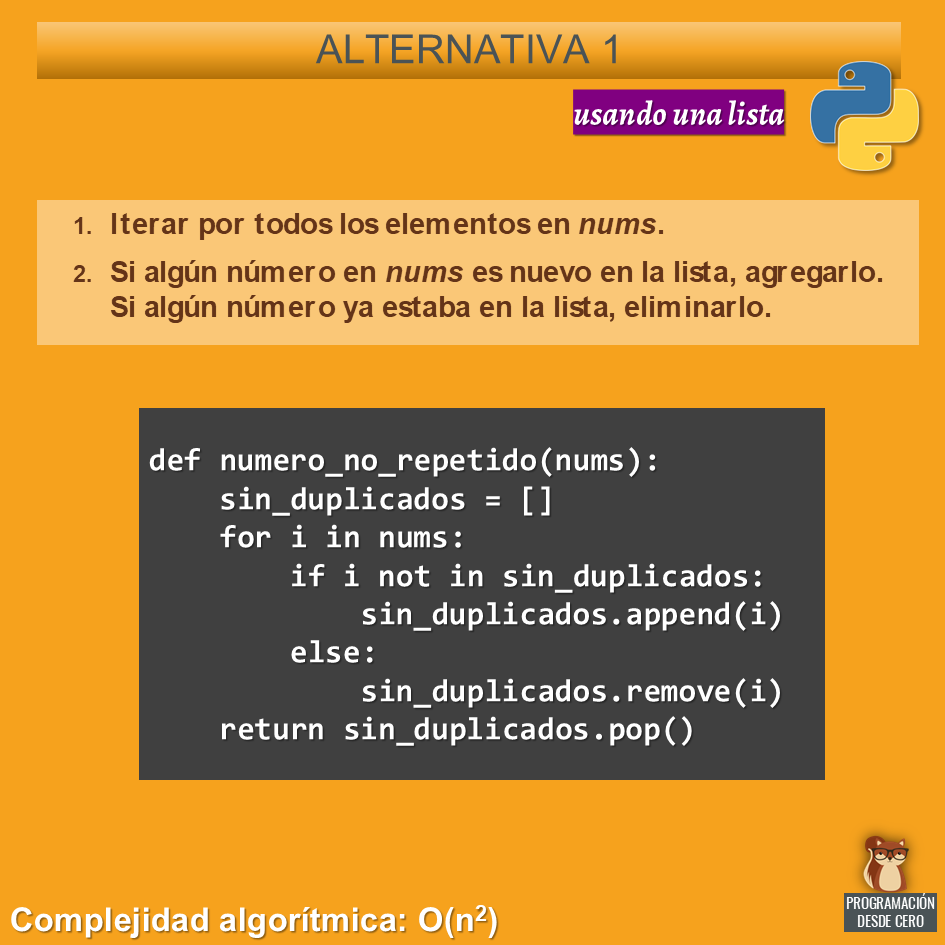
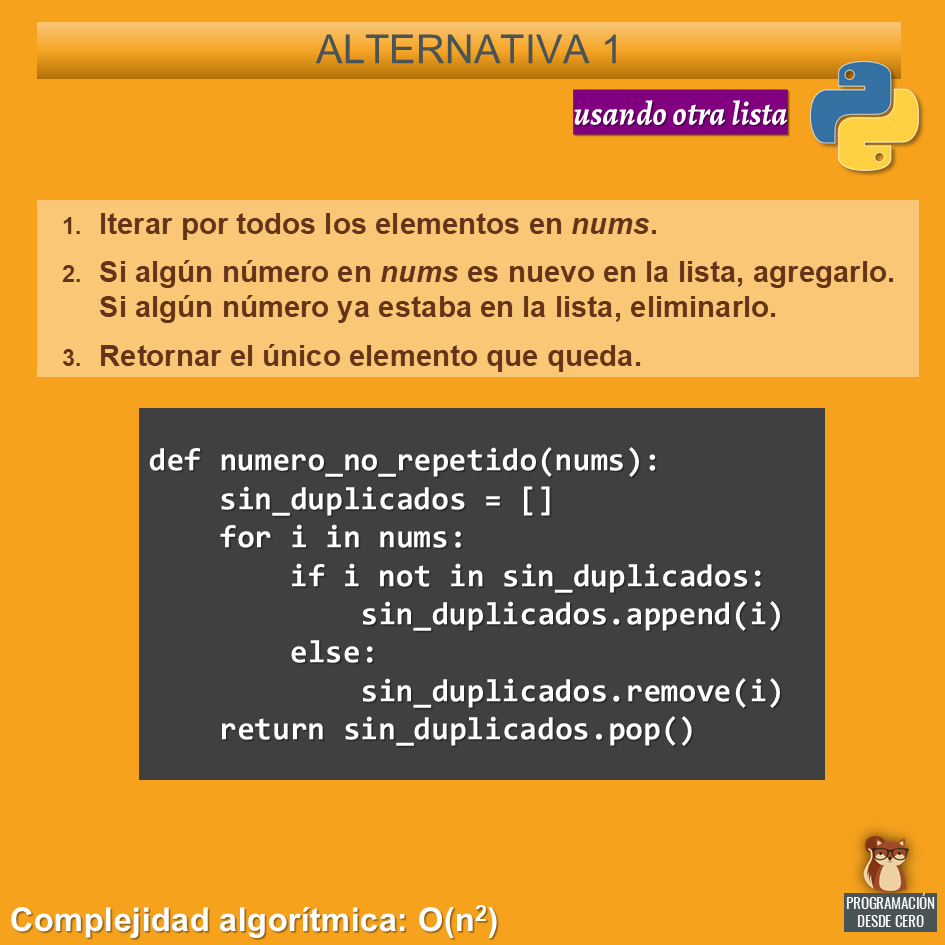
Update post.

Changed region(s): [[0.0307, 0.2148, 0.982, 0.3989], [0.7058, 0.0921, 0.8593, 0.1534]]

diff --git a/_posts/2019-09-02-ejercicio-python-4-soluciones.md b/_posts/2019-09-02-ejercicio-python-4-soluciones.md
@@ -7,7 +7,12 @@ tags: arreglos
 published: true
 ---
 
-Un mismo problema, 4 formas diferentes de resolverlo. ¿Se te ocurre alguna otra? "Dado un arreglo no vacío de números enteros, cada elemento aparece dos veces, excepto uno. Se debe encontrar el elemento que no se repite." (fuente: [leetcode.com](https://leetcode.com/){:target="_blank"})
+Un mismo problema, 4 formas diferentes de resolverlo. ¿Se te ocurre alguna otra?
+
+El problema es: "nums es una lista no vacía de números enteros donde cada elemento aparece dos veces, excepto uno. Se debe encontrar el elemento que no se repite."
+
+Para pensar: ¿cómo afectaría a la complejidad algorítmica si, en la primera alternativa, se reemplaza la lista por un conjunto?
+
 <br />
 <br />![Enunciado]({{ site.url }}/assets/2019-09-02-ejercicio-python-4-soluciones-01.png)
 <br />
@@ -20,3 +25,84 @@ Un mismo problema, 4 formas diferentes de resolverlo. ¿Se te ocurre alguna otra
 <br />![Alternativa 4]({{ site.url }}/assets/2019-09-02-ejercicio-python-4-soluciones-05.png)
 
 
+{% include accesibilidad.html %}
+EJERCICIO CON LISTAS y  4  soluciones  en  Python
+
+"nums es una lista no vacía de números enteros donde cada elemento aparece dos veces, excepto uno. Se debe encontrar el elemento que no se repite."
+
+Ejemplo 1:
+
+- Entrada: [2,2,1]
+- Salida: 1
+
+Ejemplo 2:
+
+- Entrada: [4,1,2,1,2]
+- Salida: 4
+
+ALTERNATIVA 1: usando otra lista
+
+1. Iterar por todos los elementos en nums.
+2. Si algún número en nums es nuevo en la lista, agregarlo. Si algún número ya estaba en la lista, eliminarlo.
+3. Retornar el único elemento que queda.
+
+```python
+def numero_no_repetido(nums):
+    sin_duplicados = []
+    for i in nums:
+        if i not in sin_duplicados:
+            sin_duplicados.append(i)
+        else:
+            sin_duplicados.remove(i)
+    return sin_duplicados.pop()
+```
+
+Complejidad algorítmica: O(n^2)
+
+ALTERNATIVA 2: usando una tabla hash
+
+1. Iterar por todos los elementos en nums.
+2. Si tabla_hash tiene una clave con el elemento, extraerlo usando pop. Si no, agregar un par clave/valor.
+3. Al final solo quedará un elemento. Obtenerlo con popitem.
+
+```python
+def numero_no_repetido(nums):
+    tabla_hash = {}
+    for i in nums:
+        try:
+            tabla_hash.pop(i)                
+        except:
+            tabla_hash[i] = 1
+    return tabla_hash.popitem()[0]
+```
+
+Complejidad algorítmica: O(n)
+
+ALTERNATIVA 3: usando un enfoque matemático
+
+Al duplicar la suma de los elementos distintos y restarle la suma total, todos los pares se cancelan y solo queda el elemento único: 2 * (a + b + c) - (a + a + b + b + c) = c
+
+```python
+def numero_no_repetido(nums):
+    return 2 * sum(set(nums)) - sum(nums)
+```
+
+Complejidad algorítmica: O(n)
+
+ALTERNATIVA 4: mediante manipulación de bits
+
+- Si aplicamos XOR entre el 0 y un bit, retornará ese bit: a ⊕ 0 = a
+- Si aplicamos XOR entre dos bits iguales, retornará 0: a ⊕ a = 0
+- Entonces: a ⊕ b ⊕ a = (a ⊕ a) ⊕ b = 0 ⊕ b = b
+
+```python
+def numero_no_repetido(nums):
+    a = 0
+    for i in nums:
+        a ^= i
+    return a
+```
+
+Complejidad algorítmica: O(n)
+
+</div></details>
